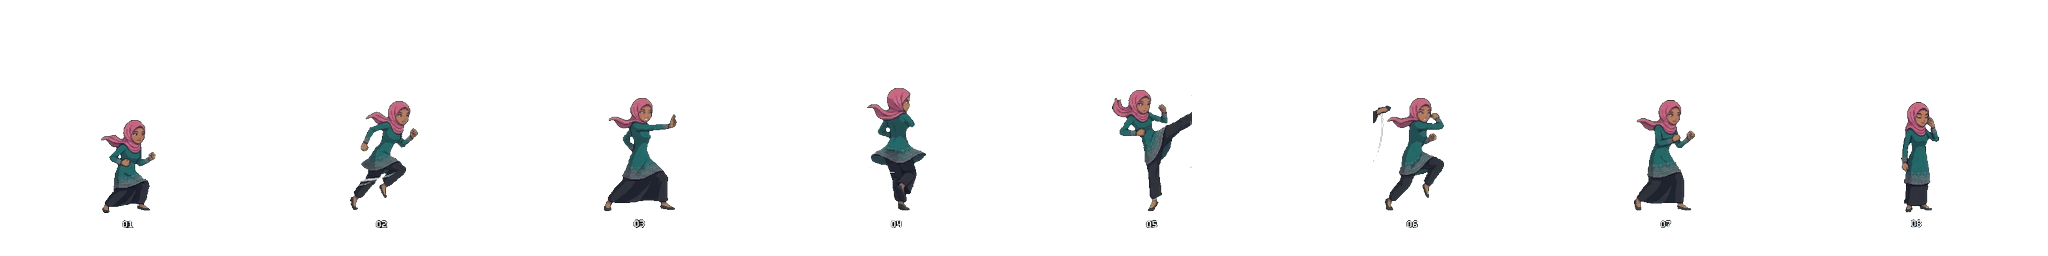
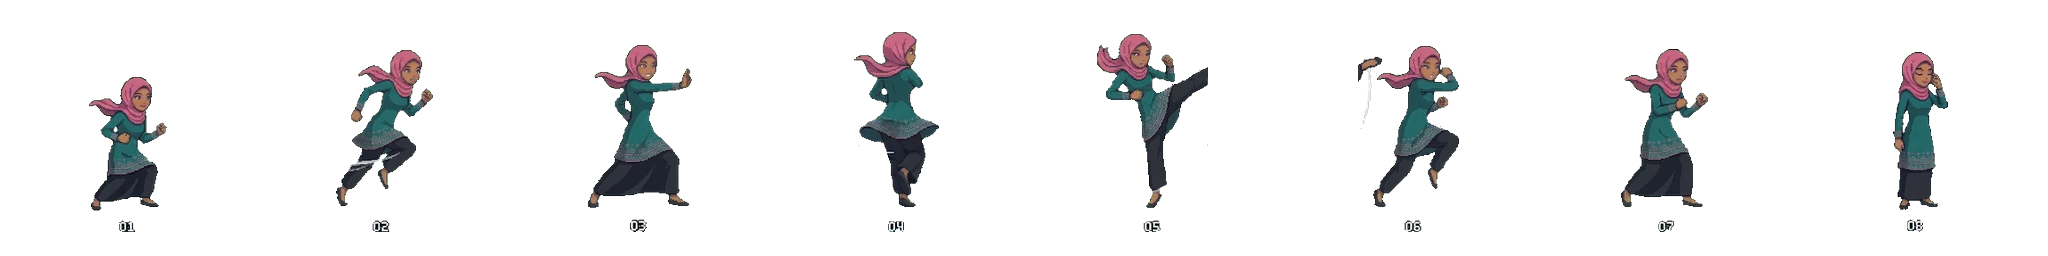
feat(dani): scale character to match Jihan, strip frame numbers, and add animation speed controller

diff --git a/src/components/GameCanvas.tsx b/src/components/GameCanvas.tsx
@@ -373,6 +373,7 @@ export const GameCanvas: React.FC<GameCanvasProps> = ({
     durationTimer: 0,
   });
 
+  const animSpeedRef = useRef<number>(0.75); // Animation speed multiplier (0.5 to 1.5, default 0.75 relaxed)
   const screenShakeRef = useRef(0);
   const comboRef = useRef({ count: 0, timer: 0 });
 
@@ -1283,6 +1284,20 @@ export const GameCanvas: React.FC<GameCanvasProps> = ({
         onSwitchCharacter();
         sound.playInteract();
       }
+      if (e.key === "[" || e.key === "{") {
+        const speeds = [0.5, 0.75, 1.0, 1.25];
+        const curIdx = speeds.indexOf(animSpeedRef.current);
+        const nextIdx = curIdx <= 0 ? speeds.length - 1 : curIdx - 1;
+        animSpeedRef.current = speeds[nextIdx];
+        sound.playInteract();
+      }
+      if (e.key === "]" || e.key === "}") {
+        const speeds = [0.5, 0.75, 1.0, 1.25];
+        const curIdx = speeds.indexOf(animSpeedRef.current);
+        const nextIdx = (curIdx + 1) % speeds.length;
+        animSpeedRef.current = speeds[nextIdx];
+        sound.playInteract();
+      }
     };
 
     const handleKeyUp = (e: KeyboardEvent) => {
@@ -1791,6 +1806,9 @@ export const GameCanvas: React.FC<GameCanvasProps> = ({
       setSpeedMult: (mult) => {
         speedMultRef.current = mult;
       },
+      setAnimSpeed: (speed) => {
+        animSpeedRef.current = speed;
+      },
       triggerDialogue: (dialogueId) => {
         onTriggerDialogue(dialogueId);
       },
@@ -1826,6 +1844,7 @@ export const GameCanvas: React.FC<GameCanvasProps> = ({
           godMode: godModeRef.current,
           oneHitKill: oneHitKillRef.current,
           speedMult: speedMultRef.current,
+          animSpeed: animSpeedRef.current,
           bossStatus: {
             monster: {
               active: monsterRef.current.isActive,
@@ -2465,8 +2484,9 @@ export const GameCanvas: React.FC<GameCanvasProps> = ({
           }
         }
 
-        // Advance frames every 3 ticks
-        if (attack.timer % 3 === 0) {
+        // Advance combat attack frames (calibrated relaxed pacing: default 7 ticks per frame)
+        const attackTicksPerFrame = Math.max(2, Math.round(7 / animSpeedRef.current));
+        if (attack.timer % attackTicksPerFrame === 0) {
           attack.frame++;
           if (attack.frame >= 8) {
             attack.isAttacking = false;
@@ -6663,6 +6683,7 @@ export const GameCanvas: React.FC<GameCanvasProps> = ({
           const isJihanT = charId === "jihan";
           let tImg: HTMLImageElement | null = null;
           let frameIdx = 0;
+          const speedMult = animSpeedRef.current;
 
           if (isAttacking) {
             tImg = isJihanT ? imagesRef.current.jihanTransCombat : imagesRef.current.daniTransCombat;
@@ -6670,14 +6691,14 @@ export const GameCanvas: React.FC<GameCanvasProps> = ({
           } else if (isMoving) {
             if (isRun) {
               tImg = isJihanT ? imagesRef.current.jihanTransRun : imagesRef.current.daniTransRun;
-              frameIdx = Math.floor(pos.animTimer / 4) % 8;
+              frameIdx = Math.floor((pos.animTimer * speedMult) / 6) % 8;
             } else {
               tImg = isJihanT ? imagesRef.current.jihanTransWalk : imagesRef.current.daniTransWalk;
-              frameIdx = Math.floor(pos.animTimer / 6) % 8;
+              frameIdx = Math.floor((pos.animTimer * speedMult) / 8) % 8;
             }
           } else {
             tImg = isJihanT ? imagesRef.current.jihanTransIdle : imagesRef.current.daniTransIdle;
-            frameIdx = Math.floor(pos.animTimer / 7) % 8;
+            frameIdx = Math.floor((pos.animTimer * speedMult) / 12) % 8;
           }
 
           if (tImg) {
@@ -6685,9 +6706,9 @@ export const GameCanvas: React.FC<GameCanvasProps> = ({
             const frameH = 256;
             const sx = frameIdx * frameW;
             const sy = 0;
-            const destW = 142;
-            const destH = 142;
-            const drawY = pos.y + 18 - destH * (228 / 256);
+            const destW = 145;
+            const destH = 145;
+            const drawY = pos.y + 18 - destH * (232 / 256);
 
             ctx.save();
             if (pos.facingLeft) {
@@ -6706,26 +6727,27 @@ export const GameCanvas: React.FC<GameCanvasProps> = ({
         if (charId === "dani" && !isTransforming && !isUltimate && !(isCurrentActive && transformStateRef.current.isActive)) {
           let daniActionImg: HTMLImageElement | null = null;
           let frameIdx = 0;
-          const destW = 135;
-          const destH = 135;
+          const destW = 145;
+          const destH = 145;
+          const speedMult = animSpeedRef.current;
 
           if (isAttacking) {
             daniActionImg = imagesRef.current.daniCombat;
             frameIdx = Math.min(7, Math.max(0, attackStateRef.current.frame));
           } else if (isSpecialEmote) {
             daniActionImg = imagesRef.current.daniInteract;
-            frameIdx = Math.floor(pos.animTimer / 7) % 8;
+            frameIdx = Math.floor((pos.animTimer * speedMult) / 10) % 8;
           } else if (isMoving) {
             if (isRun) {
               daniActionImg = imagesRef.current.daniRun;
-              frameIdx = Math.floor(pos.walkTimer / 3) % 8;
+              frameIdx = Math.floor((pos.walkTimer * speedMult) / 6) % 8;
             } else {
               daniActionImg = imagesRef.current.daniWalk;
-              frameIdx = Math.floor(pos.walkTimer / 5) % 8;
+              frameIdx = Math.floor((pos.walkTimer * speedMult) / 8) % 8;
             }
           } else {
             daniActionImg = imagesRef.current.daniIdle;
-            frameIdx = Math.floor(pos.animTimer / 8) % 8;
+            frameIdx = Math.floor((pos.animTimer * speedMult) / 12) % 8;
           }
 
           if (daniActionImg) {
@@ -6733,7 +6755,7 @@ export const GameCanvas: React.FC<GameCanvasProps> = ({
             const frameH = 256;
             const sx = frameIdx * frameW;
             const sy = 0;
-            const footYOffset = destH * (228 / 256);
+            const footYOffset = destH * (232 / 256);
             const drawY = pos.y + 18 - footYOffset;
 
             ctx.save();
@@ -6824,17 +6846,18 @@ export const GameCanvas: React.FC<GameCanvasProps> = ({
           if (masterImg && !isSpecialEmote) {
             let col = 0;
             let row = 0;
+            const speedMult = animSpeedRef.current;
             if (isMoving) {
               if (isRun) {
                 row = 2; // RUN (8 frames)
-                col = Math.floor(pos.walkTimer / 3) % 8;
+                col = Math.floor((pos.walkTimer * speedMult) / 6) % 8;
               } else {
                 row = 1; // WALK (8 frames)
-                col = Math.floor(pos.walkTimer / 6) % 8;
+                col = Math.floor((pos.walkTimer * speedMult) / 8) % 8;
               }
             } else {
               row = 0; // IDLE (8 frames breathing & blink)
-              col = Math.floor(pos.animTimer / 8) % 8;
+              col = Math.floor((pos.animTimer * speedMult) / 12) % 8;
             }
 
             const frameW = 210;
@@ -7398,6 +7421,21 @@ export const GameCanvas: React.FC<GameCanvasProps> = ({
       }
       ctx.restore();
 
+      // Layer 7.46: Animation Speed Indicator HUD (below transform bar)
+      const animSpeedPillX = 24;
+      const animSpeedPillY = transBarY + 24;
+      ctx.save();
+      ctx.fillStyle = "rgba(10, 15, 26, 0.9)";
+      ctx.fillRect(animSpeedPillX - 4, animSpeedPillY - 10, transBarW + 8, 18);
+      ctx.strokeStyle = "#a855f7";
+      ctx.lineWidth = 1.2;
+      ctx.strokeRect(animSpeedPillX - 4, animSpeedPillY - 10, transBarW + 8, 18);
+      ctx.font = "bold 8px 'Courier New', monospace";
+      ctx.fillStyle = "#c084fc";
+      ctx.textAlign = "left";
+      ctx.fillText(`⏱ ANIM SPEED: ${animSpeedRef.current}x [ [ / ] ]`, animSpeedPillX, animSpeedPillY + 2);
+      ctx.restore();
+
       // Layer 7.5: Combo Counter HUD (Top Right Screen)
       if (comboRef.current.count > 0) {
         ctx.save();
@@ -7781,8 +7819,27 @@ export const GameCanvas: React.FC<GameCanvasProps> = ({
         width={CANVAS_W}
         height={CANVAS_H}
         className="w-full h-full object-contain image-rendering-pixelated cursor-pointer"
-        onClick={() => {
+        onClick={(e) => {
           if (!isDialogueOpen) {
+            const canvas = canvasRef.current;
+            if (canvas) {
+              const rect = canvas.getBoundingClientRect();
+              const scaleX = CANVAS_W / rect.width;
+              const scaleY = CANVAS_H / rect.height;
+              const clickX = (e.clientX - rect.left) * scaleX;
+              const clickY = (e.clientY - rect.top) * scaleY;
+
+              // Check if clicking anim speed pill (x: 20..182, y: 64..94)
+              if (clickX >= 20 && clickX <= 182 && clickY >= 64 && clickY <= 94) {
+                const speeds = [0.5, 0.75, 1.0, 1.25];
+                const curIdx = speeds.indexOf(animSpeedRef.current);
+                const nextIdx = (curIdx + 1) % speeds.length;
+                animSpeedRef.current = speeds[nextIdx];
+                sound.playInteract();
+                return;
+              }
+            }
+
             keysRef.current.interact = true;
             setTimeout(() => (keysRef.current.interact = false), 150);
           }

diff --git a/src/components/DevHub.tsx b/src/components/DevHub.tsx
@@ -30,6 +30,7 @@ export interface DevState {
   godMode: boolean;
   oneHitKill: boolean;
   speedMult: number;
+  animSpeed?: number;
   bossStatus: {
     monster: { active: boolean; hp: number; maxHp: number; defeated: boolean };
     adif: { hp: number; maxHp: number; onTower: boolean };
@@ -49,6 +50,7 @@ export interface DevActions {
   setGodMode: (enabled: boolean) => void;
   setOneHitKill: (enabled: boolean) => void;
   setSpeedMult: (mult: number) => void;
+  setAnimSpeed?: (speed: number) => void;
   triggerDialogue: (dialogueId: string) => void;
   switchActiveChar: () => void;
   fillUltimate: () => void;
@@ -673,6 +675,34 @@ export const DevHub: React.FC<DevHubProps> = ({ actions, onClose, isDefaultOpen 
                       }`}
                     >
                       {speed}x
+                    </button>
+                  ))}
+                </div>
+              </div>
+
+              {/* Animation Speed Frame Rate Control */}
+              <div>
+                <label className="text-[10px] text-slate-400 block mb-1">KECEPATAN ANIMASI PLAYER & DUNIA (PERGANTIAN FRAME):</label>
+                <div className="grid grid-cols-4 gap-1">
+                  {[
+                    { label: "0.5x (Lambat)", val: 0.5 },
+                    { label: "0.75x (Default)", val: 0.75 },
+                    { label: "1.0x (Normal)", val: 1.0 },
+                    { label: "1.25x (Cepat)", val: 1.25 },
+                  ].map((item) => (
+                    <button
+                      key={item.val}
+                      onClick={() => {
+                        actions?.setAnimSpeed?.(item.val);
+                        setDevState(prev => prev ? { ...prev, animSpeed: item.val } : prev);
+                      }}
+                      className={`py-1 rounded font-bold border text-center text-[10px] transition-all ${
+                        (devState?.animSpeed ?? 0.75) === item.val
+                          ? "bg-purple-500/30 text-purple-200 border-purple-400 shadow-[0_0_8px_rgba(168,85,247,0.4)]"
+                          : "bg-white/5 text-slate-400 border-white/10 hover:bg-white/10"
+                      }`}
+                    >
+                      {item.label}
                     </button>
                   ))}
                 </div>
